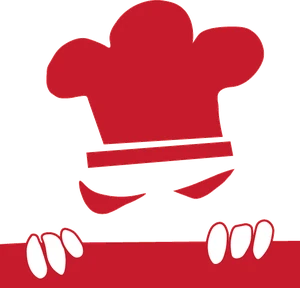
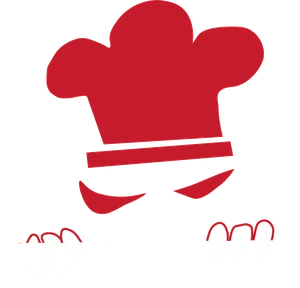
The chef's fingers lie on one straight counter, and the tour drops the menu after the roulette
The picture's own slanted counter never lined up with the sheet's edge; it is
removed and the fingers rest on the sheet itself. In the tour, the pass stops
showing the menu once the assignment is done.

Claude-Session: https://claude.ai/code/session_0144E14ZGuic4XWRUNxdQGts

Changed region(s): [[0.0, 0.8125, 1.0, 1.0]]

diff --git a/src/features/tutorial/screens.tsx b/src/features/tutorial/screens.tsx
@@ -152,25 +152,31 @@ export function TableScreen({ phase, reached }: ScreenProps) {
 
             {phase === 'LOCKED' && (
               <div className="stack">
-                <span className="pass__section-title">{t('rounds.menu.title')}</span>
-                <div className="row">
-                  <button type="button" className="secondary">
-                    {t('tutorial.menuFree')}
-                  </button>
-                  <button type="button" className={composed ? '' : 'secondary'} data-tour="menuCourses">
-                    {t('tutorial.menuCourses')}
-                  </button>
-                </div>
-                {composed && (
-                  <ol className="menucard__list">
-                    {COURSES.map((c) => (
-                      <li key={c} className="menucard__course">
-                        <span className="menucard__name">{t(`briefs.courseOption.${c}`)}</span>
-                      </li>
-                    ))}
-                  </ol>
+                {/* The menu is composed once, before the roulette; after it
+                    the pass is about the assignment alone. */}
+                {!dealt && (
+                  <>
+                  <span className="pass__section-title">{t('rounds.menu.title')}</span>
+                  <div className="row">
+                    <button type="button" className="secondary">
+                      {t('tutorial.menuFree')}
+                    </button>
+                    <button type="button" className={composed ? '' : 'secondary'} data-tour="menuCourses">
+                      {t('tutorial.menuCourses')}
+                    </button>
+                  </div>
+                  {composed && (
+                    <ol className="menucard__list">
+                      {COURSES.map((c) => (
+                        <li key={c} className="menucard__course">
+                          <span className="menucard__name">{t(`briefs.courseOption.${c}`)}</span>
+                        </li>
+                      ))}
+                    </ol>
+                  )}
+                    <hr className="pass__rule" />
+                  </>
                 )}
-                <hr className="pass__rule" />
                 <span className="pass__section-title">{t('rounds.assignment.title')}</span>
                 <p className="muted" style={{ margin: 0 }}>
                   {dealt ? t('rounds.assignment.ready') : t('rounds.assignment.explain')}

diff --git a/src/styles/table.css b/src/styles/table.css
@@ -3675,7 +3675,7 @@
   margin-bottom: 8px;
   padding: 10px 16px 16px;
   background: var(--paper-solid);
-  /* As thick as the counter in the drawing at 150px, so the two are one. */
+  /* The counter the chef grips: thick enough to hold his fingers. */
   border-top: 22px solid var(--accent);
   border-radius: 14px 14px 12px 12px;
   box-shadow: 0 -4px 24px rgba(80, 20, 20, 0.22);
@@ -3687,8 +3687,8 @@
   bottom: 100%;
   width: 150px;
   height: auto;
-  /* `bottom: 100%` is the inner edge of the red border, so the picture's own
-     red band — the whole counter, fingers and all — lands exactly on it. */
+  /* `bottom: 100%` is the inner edge of the red border: the picture has no
+     counter of its own any more, so its fingers lie on this straight one. */
   transform: translate(-50%, 0);
   pointer-events: none;
   animation: chef-hop 0.42s ease-out;

diff --git a/assets-src/README.md b/assets-src/README.md
@@ -67,10 +67,10 @@ python -c "from PIL import Image; im=Image.open('assets-src/inside_fridge.png');
 
 `public/chef_peek.webp` — the chef leaning on the counter in the creation sheet —
 is cut from `icons/logo_inverse.png`: the white around him flood-filled to
-transparent from the corners (his fingers, white but closed by their red outline,
-stay white), kept down to the bottom of the drawing so the fingers are whole and
-the red band is the sheet's 22 px top edge, and scaled to 300 px wide for a
-150 px display:
+transparent from the corners, and the drawn red counter removed under its top
+edge, fingers kept, so the sheet's own straight 22px red edge is the counter and
+the fingers lie on it (the drawn one slanted, and never lined up). Scaled to
+300 px wide for a 150 px display:
 
 ```
 python - <<'PY'
@@ -82,6 +82,22 @@ px = im.load()
 for y in range(h):
     for x in range(w):
         if px[x, y] == (255, 0, 255, 255): px[x, y] = (255, 255, 255, 0)
+# The drawn counter: everything under its top edge that is not a finger goes,
+# so the sheet's own straight red edge is the counter and the fingers lie on it.
+left, right = 509, 502
+for x in range(w):
+    top = round(left + (right - left) * x / (w - 1)) - 2
+    for y in range(top, h):
+        r, g, b, a = px[x, y]
+        finger = 48 <= x <= 172 or 405 <= x <= 562
+        if a and not (finger and r > 200 and g > 200 and b > 200):
+            px[x, y] = (255, 255, 255, 0)
+# Stray white specks the flood fill left beside the fingers.
+for y in range(440, h):
+    for x in range(w):
+        r, g, b, a = px[x, y]
+        if a and r > 200 and g > 200 and b > 200 and not (48 <= x <= 172 or 405 <= x <= 562):
+            px[x, y] = (255, 255, 255, 0)
 crop = im.crop((0, im.getbbox()[1], w, h))
 crop.resize((300, round(crop.height * 300 / w)), Image.LANCZOS).save('public/chef_peek.webp', 'WEBP', quality=90, method=6)
 PY

diff --git a/CHANGELOG.md b/CHANGELOG.md
@@ -77,6 +77,15 @@ the interface, and add to its change log when a decision moves.
 
 ## 2026-09-28
 
+**Fixed: a step where the drawn counter met the sheet.** The chef's picture
+carried its own red counter, drawn slightly slanted, laid over the sheet's
+straight red edge — so at both ends of the picture the two never quite lined up.
+The drawn counter is now removed under its top edge (fingers kept), and the
+fingers lie on the sheet's own edge: one straight counter, no join.
+
+**Fixed: the tour kept the menu on the pass after the roulette.** At step 10 the
+menu is already composed; the pass now shows only the assignment.
+
 **Changed: the guided dinner is pressed, never read.** No step closes with an
 OK in the bubble any more; each one moves on because something on the table was
 pressed, and the bubble gains *← Previous step*. 27 steps, rebuilt around what
